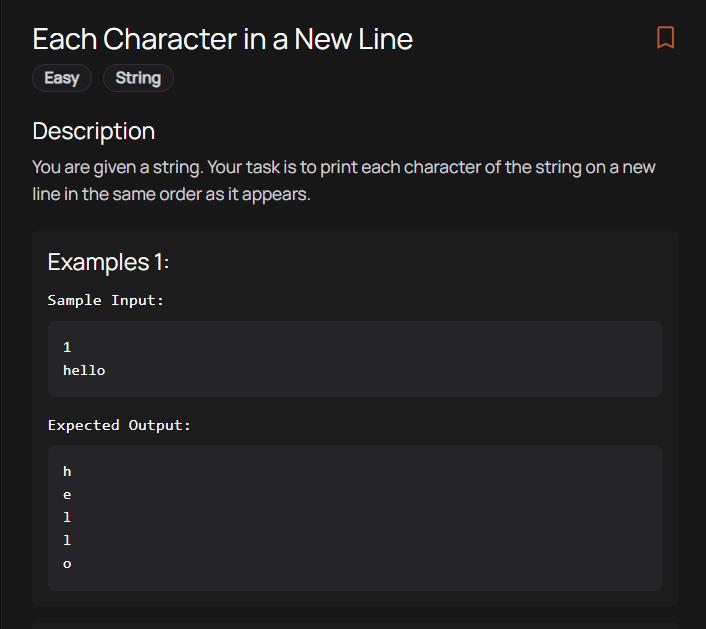
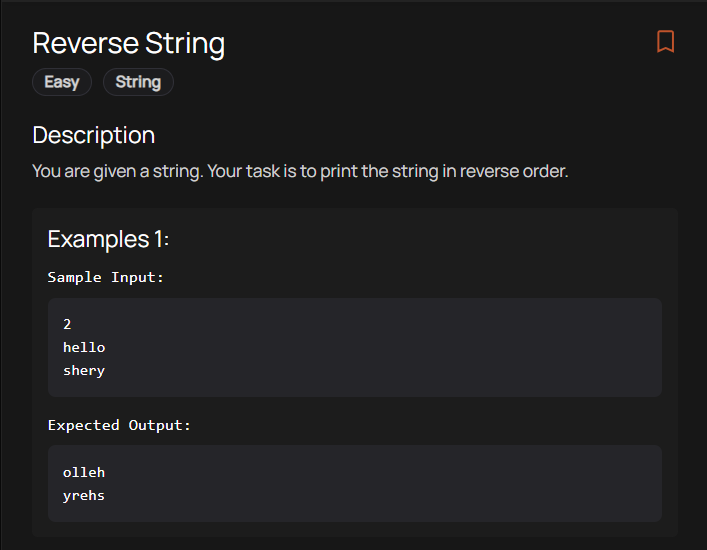
feat : reverseString

diff --git a/script.js b/script.js
@@ -1,8 +1,15 @@
-function printEachChar(str) {
+/**
+ * @param {string} str
+ * @return {string}
+ */
+ 
+function reverseString(str) {
     // Write your logic here
-    for(let i=0 ; i<str.length ; i++){
-        console.log(str[i])
+    let rev = ""
+    for(let i =str.length-1 ; i>=0 ; i--){
+        rev+=str.charAt(i)
     }
+    return rev
 }
 
-module.exports = { printEachChar };
+module.exports = { reverseString };